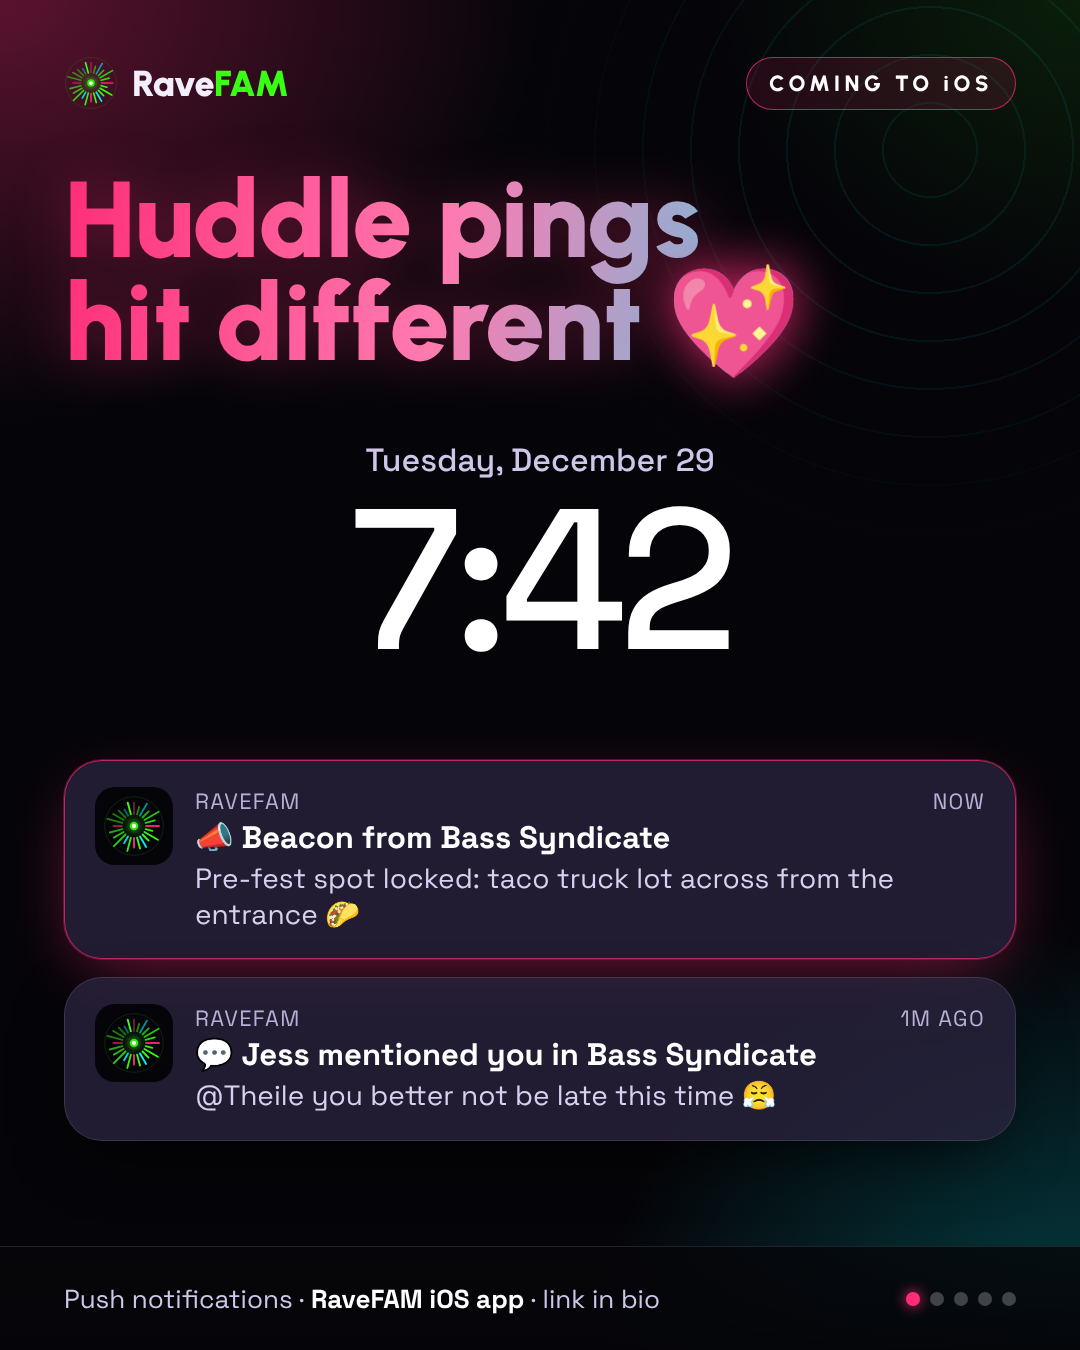
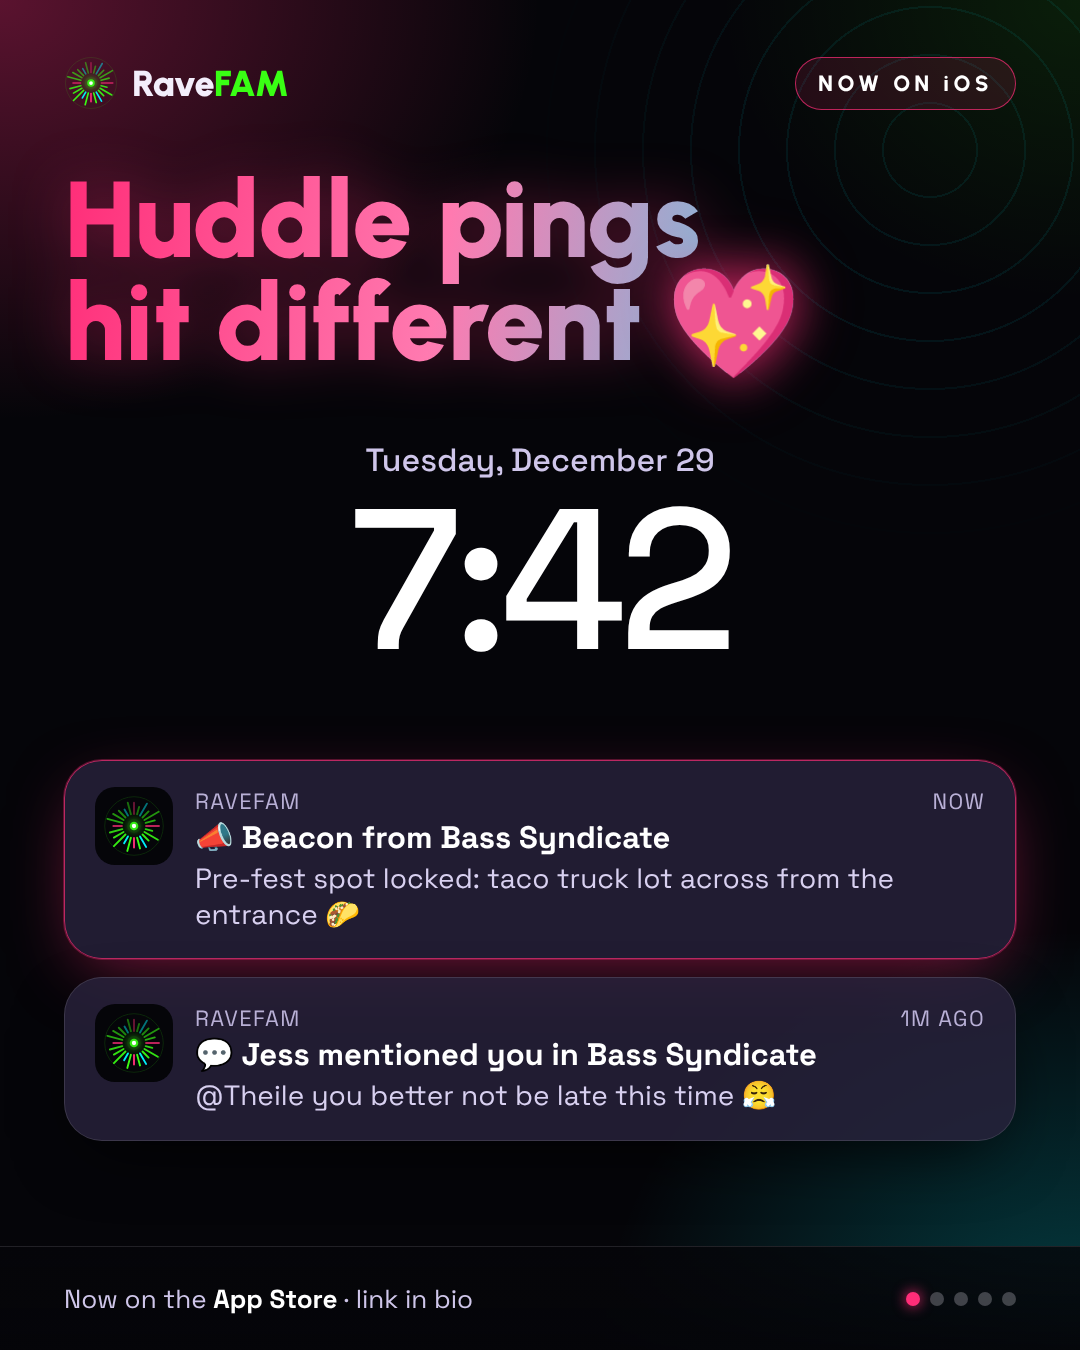
Marketing: Huddle push carousel says the iOS app is out now
Claude-Session: https://claude.ai/code/session_01SGcxiE6Gtb5fqfiP5zh2db

diff --git a/marketing/huddle-push-2026/POST.md b/marketing/huddle-push-2026/POST.md
@@ -1,6 +1,6 @@
-# Huddle push notifications: "coming to iOS" teaser
+# Huddle push notifications: RaveFAM iOS app is out
 
-One feed carousel teasing push notifications in the RaveFAM iOS app.
+One feed carousel announcing the RaveFAM iOS app (now on the App Store) through its Huddle push notifications.
 
 - **Format:** 4:5 feed carousel, 1080×1350 PNG: `slide1.png` … `slide5.png`
 - **Screens:** real app screens captured with demo data (`_build/capture.spec.js`): demo crew "Bass Syndicate" (Sam, Kai, Jess) planning Eternal NYE. Slide 1's notification cards use the real push titles from `send-beacon-push` (📣 Beacon from {crew}) and `send-mention-push` (💬 {name} mentioned you in {crew}).
@@ -10,10 +10,10 @@ One feed carousel teasing push notifications in the RaveFAM iOS app.
 
 > Huddle pings hit different when the whole crew is on the same page 💖
 > New plan drop? Poll results? Someone found the pre-fest spot? You'll know first.
-> Push notifications are coming to the RaveFAM iOS app, so nobody gets left behind.
+> The RaveFAM iOS app is out now with push notifications, so nobody gets left behind.
 > Link in bio, and tag the friend who never checks the group chat 👇
 
-**Hashtags:** #RaveFAM #RaveFam #PLUR #RaveCrew #FestivalFriends #EternalNYE #FloridaRaves #OrlandoRaves #FestivalSeason #RaveSquad #GroupChat
+**Hashtags:** #RaveFAM #RaveFam #NowOnTheAppStore #PLUR #RaveCrew #FestivalFriends #EternalNYE #FloridaRaves #OrlandoRaves #FestivalSeason #RaveSquad #GroupChat
 
 ## Slides
 1. **Hook:** "Huddle pings hit different 💖" over a lock screen with a Beacon and an @mention push.
